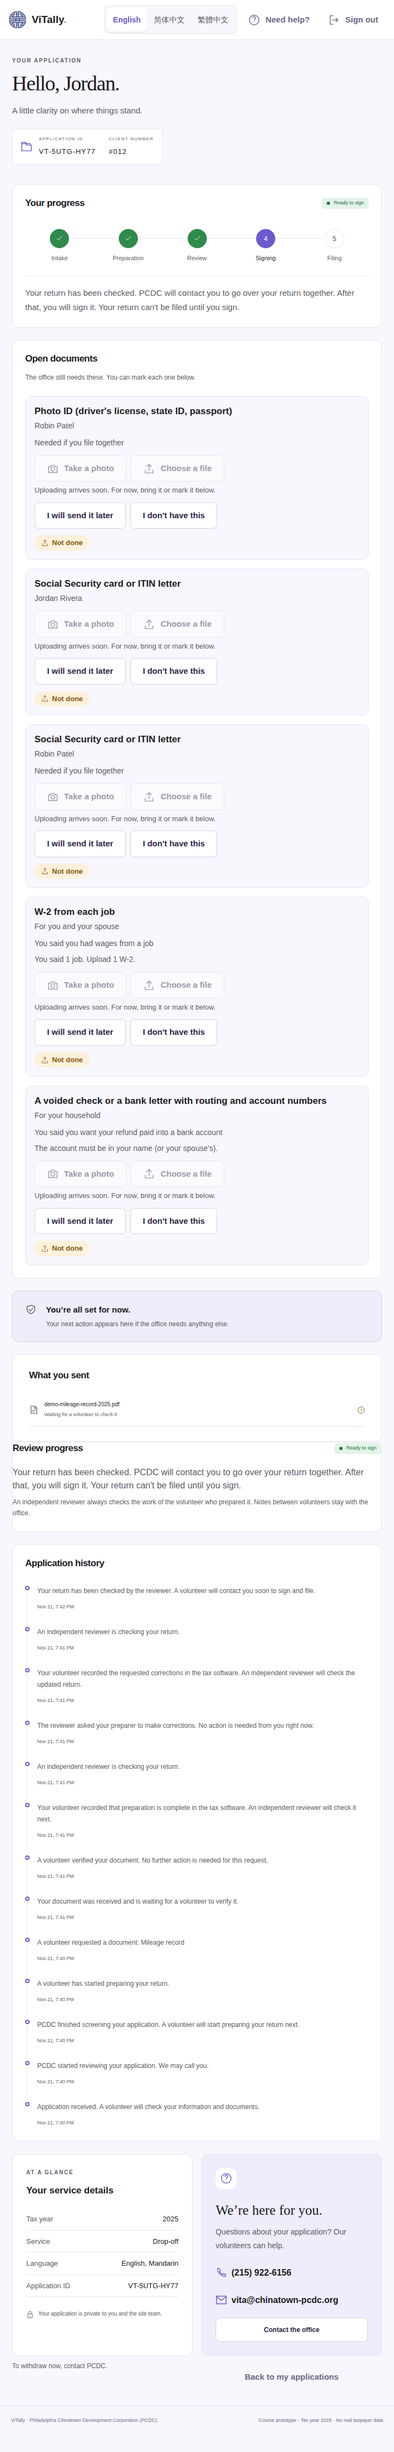
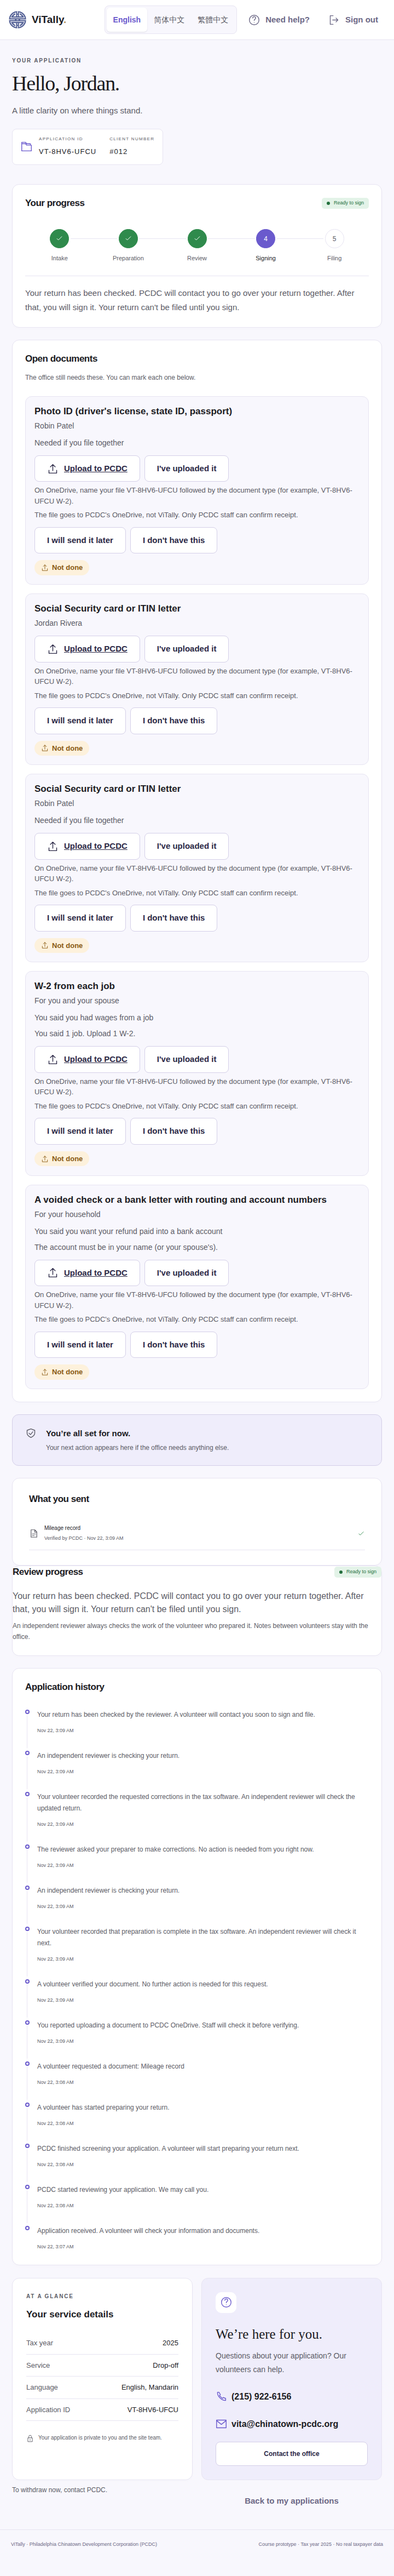
Design docs: retake Follow-ups and reviewer board at 1440, ready to sign after #245
Follow-ups (cropped above Invite a client) and the reviewer's work board
come from the 1440 px landing shots, so the right-hand buttons are no
longer cut off. Ready to sign is the same story shot from main's CI run
45001082629, which has Upload to PCDC and no demo file.

diff --git a/docs/design/README.md b/docs/design/README.md
@@ -5,13 +5,13 @@
 
 ## Current screens (Nov 21, 2026)
 
-What the app looks like on `main` today: 1280 px wide unless the name says otherwise, the local test stack with `seed:local`'s fictional data. The demo tools (the "Fill fictional details" buttons, which only a local server with `VITALLY_DEMO_TOOLS=1` shows) are hidden, as on govitally.org. Also used on the landing page (#218).
+What the app looks like on `main` today: 1280 px wide unless the table says otherwise, the local test stack with `seed:local`'s fictional data. The demo tools (the "Fill fictional details" buttons, which only a local server with `VITALLY_DEMO_TOOLS=1` shows) are hidden, as on govitally.org. Also used on the landing page (#218).
 
 | Screen | Image |
 |---|---|
-| Volunteer work board: a preparer's Waiting for preparation, and a reviewer's Waiting for review | [preparer](screens/current/work-board-preparer.png) · [reviewer](screens/current/work-board-reviewer.png) |
+| Volunteer work board: a preparer's Waiting for preparation, and a reviewer's Available tab (1440) | [preparer](screens/current/work-board-preparer.png) · [reviewer](screens/current/work-board-reviewer.png) |
 | Office case pool: every case this season, by stage, with labels | [case-pool.png](screens/current/case-pool.png) |
-| Office Follow-ups queue | [follow-ups.png](screens/current/follow-ups.png) |
+| Office Follow-ups queue (1440) | [follow-ups.png](screens/current/follow-ups.png) |
 | Client progress: just sent (1280), and ready to sign (720, from the browser story) | [sent](screens/current/client-progress.png) · [ready to sign](screens/current/client-progress-ready-to-sign-720.png) |
 | Client intake: Before you start, desktop and phone (390) | [desktop](screens/current/client-intake.png) · [phone](screens/current/client-intake-390.png) |
 
